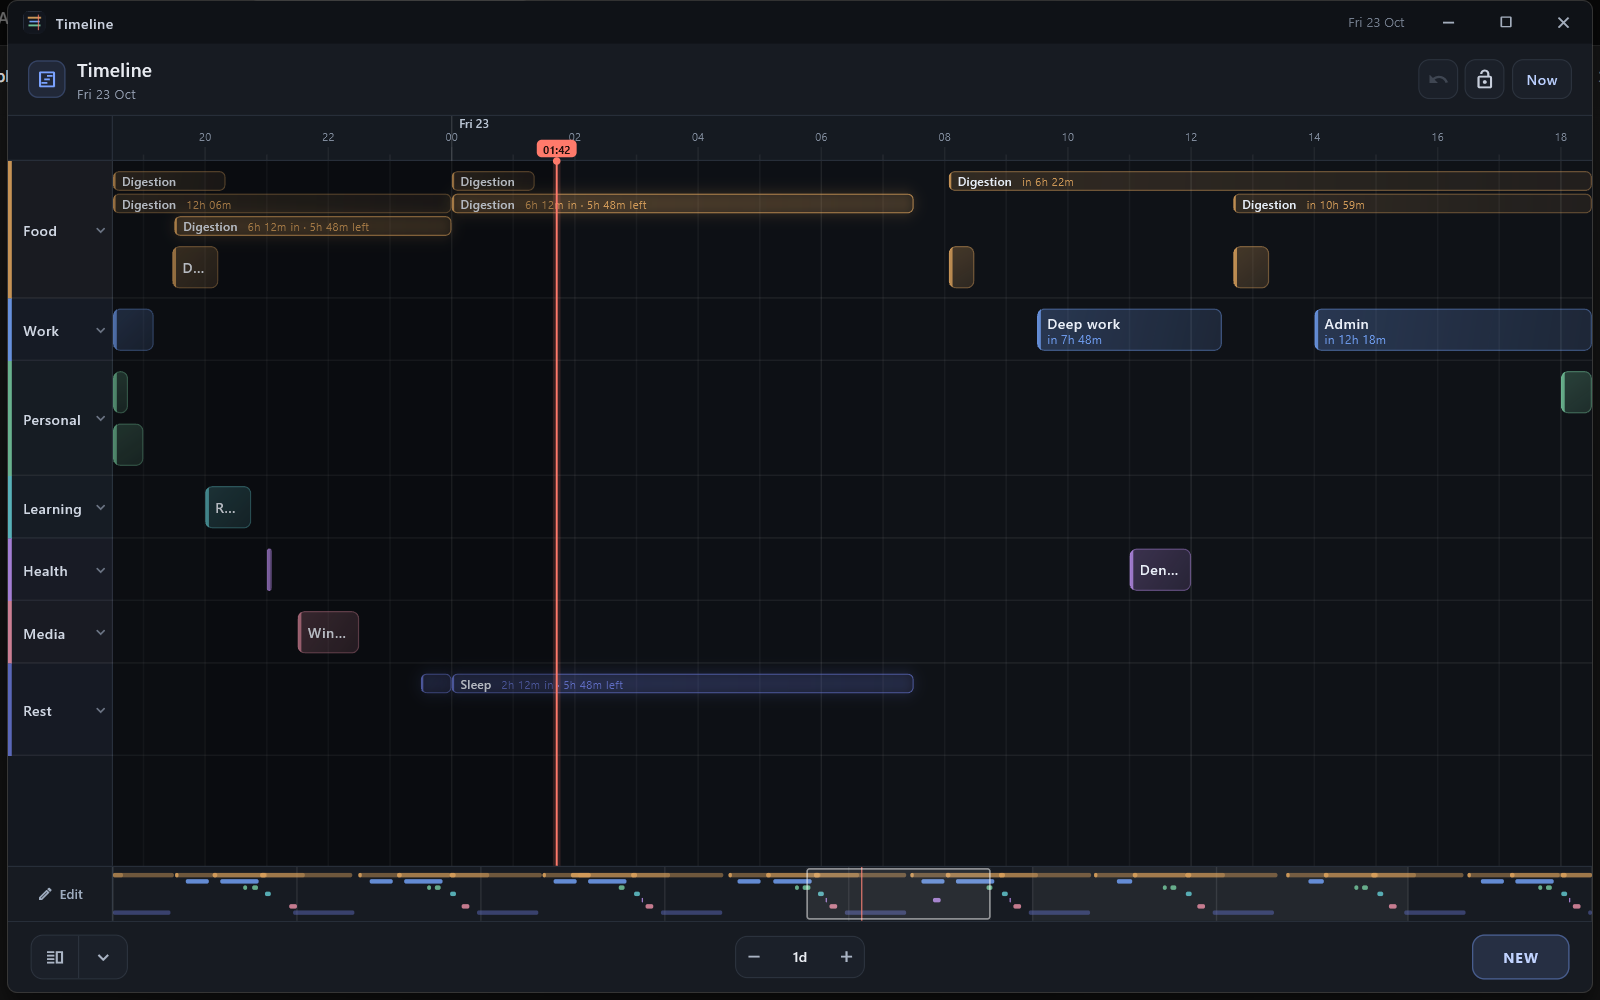
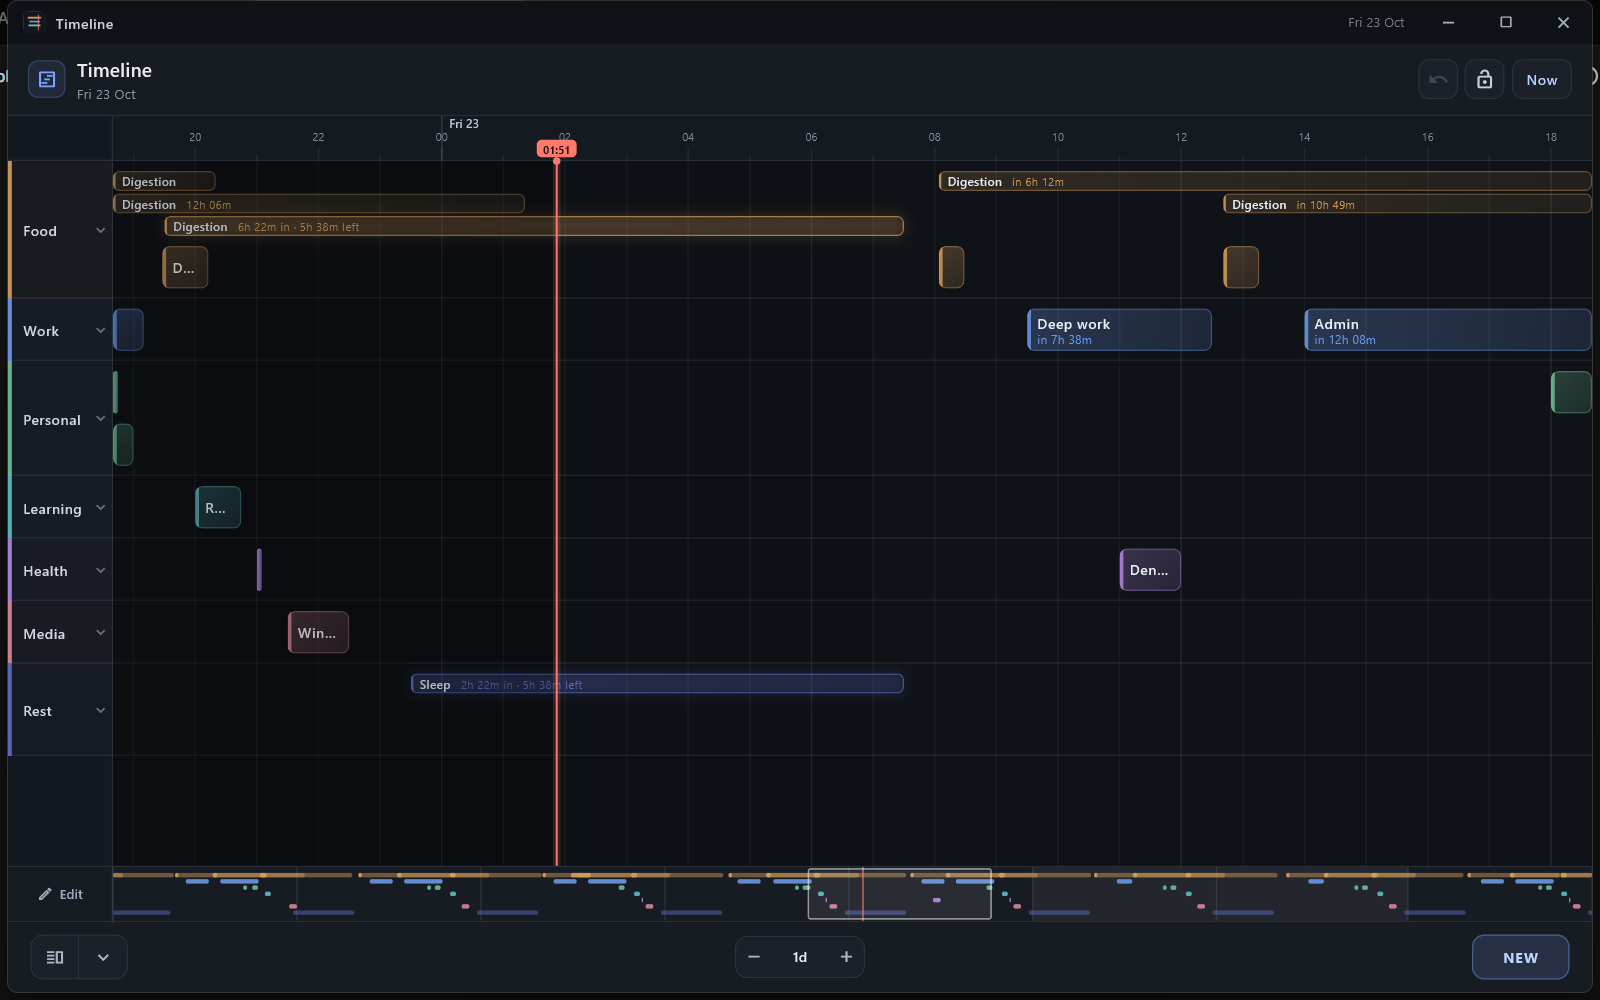
Keep cross-midnight blocks continuous (#4)

diff --git a/lib/models.dart b/lib/models.dart
@@ -371,15 +371,14 @@ class Template {
   );
 }
 
-/// A block clipped to one local calendar day. A block crossing midnight is
-/// drawn as two segments, one per day, which is what lets lanes reset daily.
+/// A block clipped to the timeline range. Blocks crossing midnight remain a
+/// single segment so their lane and geometry stay stable across day changes.
 class TimelineSegment {
   TimelineSegment({
     required this.block,
     required this.trackId,
     required this.start,
     required this.end,
-    required this.day,
     required this.isZone,
     this.lane = 0,
   });
@@ -388,7 +387,6 @@ class TimelineSegment {
   final String trackId;
   final DateTime start;
   final DateTime end;
-  final DateTime day;
   final bool isZone;
   int lane;
 }
@@ -519,9 +517,9 @@ class TimelineLayout {
   }
 }
 
-/// Computes lanes independently for every track + local day + block shape.
-/// The row height takes the worst day in the whole eight-day range, so rows
-/// never grow or shrink while the user pans.
+/// Computes lanes for each track and block shape across the whole range. The
+/// row height takes the worst overlap in the range, so rows never grow or
+/// shrink while the user pans.
 TimelineLayout buildTimelineLayout({
   required List<Track> tracks,
   required List<Block> blocks,
@@ -542,35 +540,21 @@ TimelineLayout buildTimelineLayout({
         ? rangeEnd
         : block.end;
     if (!clippedEnd.isAfter(clippedStart)) continue;
-
-    DateTime cursor = clippedStart;
-    while (cursor.isBefore(clippedEnd)) {
-      final DateTime day = startOfLocalDay(cursor);
-      final DateTime nextDay = DateTime(day.year, day.month, day.day + 1);
-      final DateTime segmentEnd = clippedEnd.isBefore(nextDay)
-          ? clippedEnd
-          : nextDay;
-      if (!segmentEnd.isAfter(cursor)) break;
-      all.add(
-        TimelineSegment(
-          block: block,
-          trackId: block.trackId,
-          start: cursor,
-          end: segmentEnd,
-          day: day,
-          isZone: block.isZone,
-        ),
-      );
-      cursor = segmentEnd;
-    }
+    all.add(
+      TimelineSegment(
+        block: block,
+        trackId: block.trackId,
+        start: clippedStart,
+        end: clippedEnd,
+        isZone: block.isZone,
+      ),
+    );
   }
 
   final Map<String, List<TimelineSegment>> groups =
       <String, List<TimelineSegment>>{};
   for (final TimelineSegment segment in all) {
-    final String key =
-        '${segment.trackId}|${segment.day.year}-'
-        '${segment.day.month}-${segment.day.day}|${segment.isZone}';
+    final String key = '${segment.trackId}|${segment.isZone}';
     groups.putIfAbsent(key, () => <TimelineSegment>[]).add(segment);
   }
 

diff --git a/test/widget_test.dart b/test/widget_test.dart
@@ -23,7 +23,7 @@ void main() {
     final DateTime today = startOfLocalDay(DateTime.now());
     final Track track = Track(id: 'work', name: 'Work', colorValue: 0xFF6F9DF0);
 
-    test('splits a block at local midnight', () {
+    test('keeps a block crossing midnight in one segment', () {
       final DateTime rangeStart = DateTime(
         today.year,
         today.month,
@@ -51,10 +51,60 @@ void main() {
         width: 720,
         trackOpen: <String, bool>{track.id: true},
       );
-      expect(layout.segments.length, 2);
-      expect(layout.segments[0].day, isNot(equals(layout.segments[1].day)));
-      expect(layout.segments[0].start, atLocalTime(today, 23, 0));
-      expect(layout.segments[1].end, atLocalTime(addLocalDays(today, 1), 1, 0));
+      expect(layout.segments, hasLength(1));
+      final TimelineSegment segment = layout.segments.single;
+      expect(segment.start, atLocalTime(today, 23, 0));
+      expect(segment.end, atLocalTime(addLocalDays(today, 1), 1, 0));
+      expect(segment.lane, 0);
+    });
+
+    test('keeps a cross-midnight lane stable when another block overlaps', () {
+      final DateTime rangeStart = DateTime(
+        today.year,
+        today.month,
+        today.day - 4,
+      );
+      final DateTime rangeEnd = DateTime(
+        today.year,
+        today.month,
+        today.day + 4,
+      );
+      final List<Block> blocks = <Block>[
+        Block(
+          id: 1,
+          trackId: track.id,
+          title: 'Evening',
+          start: atLocalTime(today, 23, 0),
+          end: atLocalTime(today, 23, 50),
+        ),
+        Block(
+          id: 2,
+          trackId: track.id,
+          title: 'Overnight',
+          start: atLocalTime(today, 23, 45),
+          end: atLocalTime(addLocalDays(today, 1), 1, 0),
+        ),
+      ];
+      final TimelineLayout layout = buildTimelineLayout(
+        tracks: <Track>[track],
+        blocks: blocks,
+        rangeStart: rangeStart,
+        rangeEnd: rangeEnd,
+        viewStart: today,
+        hours: 24,
+        width: 720,
+        trackOpen: <String, bool>{track.id: true},
+      );
+      final List<TimelineSegment> evening = layout.segments
+          .where((TimelineSegment segment) => segment.block.id == 1)
+          .toList();
+      final List<TimelineSegment> overnight = layout.segments
+          .where((TimelineSegment segment) => segment.block.id == 2)
+          .toList();
+      expect(evening, hasLength(1));
+      expect(overnight, hasLength(1));
+      expect(evening.single.lane, 0);
+      expect(overnight.single.lane, 1);
     });
 
     test('packs overlapping events and leaves free events in lane zero', () {
